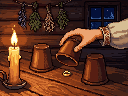
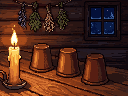
Andrzejki: trzy przykryte kubki i obrazki bez wybranego kubka (1094, czeka na ocenę)
Przed wyborem trzy przykryte kubki (wersja A domalowana przez PixelLab
w przyjęty obrazek), a po wyborze obrazek bez wybranego kubka, z figurką
wróżby w jego miejscu. Na wersję testową; do gry po ocenie 1094.

Claude-Session: https://claude.ai/code/session_01EFZUMqpHps3KDRogHBzjf3

Changed region(s): [[0.4375, 0.1875, 1.0, 0.8125]]

diff --git a/src/client/andrzejki.js b/src/client/andrzejki.js
@@ -67,13 +67,16 @@ function result(evening, texts, fresh) {
 
 // The picture of the evening, with the omen over it once told: the shadow
 // of the shape on the wall and the shape in the bowl (wax), or the
-// figurine where the cup chosen stood (`cup`).
+// figurine where the cup chosen stood (`cup`): the three cups covered
+// before the choice (1093.3), and after it the picture without the cup
+// chosen (cups-open-1 to 3).
 function scene(evening) {
   const omen = evening.told;
+  const art = evening.kind === 'cups' && omen ? `cups-open-${omen.cup ?? 2}` : evening.kind;
   return h(
     'div',
     { class: `andrzejki-scene andrzejki-scene--${evening.kind}${omen ? ' andrzejki-scene--told' : ''}` },
-    h('img', { class: 'andrzejki-scene-art', src: `/art/andrzejki/${evening.kind}.png`, alt: '', width: 128, height: 96, draggable: 'false' }),
+    h('img', { class: 'andrzejki-scene-art', src: `/art/andrzejki/${art}.png`, alt: '', width: 128, height: 96, draggable: 'false' }),
     omen && evening.kind === 'wax' && h('span', { class: 'andrzejki-shadow', 'aria-hidden': 'true' }, omenSprite(omen.id)),
     omen && evening.kind === 'wax' && h('span', { class: 'andrzejki-figure andrzejki-figure--bowl', 'aria-hidden': 'true' }, omenSprite(omen.id)),
     omen && evening.kind === 'cups' && h('span', { class: `andrzejki-figure andrzejki-figure--cup${omen.cup ?? 2}`, 'aria-hidden': 'true' }, omenSprite(omen.id)),

diff --git a/test/client.test.js b/test/client.test.js
@@ -239,9 +239,9 @@ test('every sprite on the list has its file at its size, and every class has its
     // The winter camp's decorations from the calendar of Szczodre Gody (1044).
     winter: Object.values(data('winter').decorations).map((decoration) => decoration.art),
     // Andrzejki's omens with the candle of its achievement, and its two
-    // evenings' pictures (1082 C).
+    // evenings' pictures (1082 C), the cups' also without each cup chosen.
     omens: [...data('winter').andrzejki.omens.map((omen) => omen.id), 'candle'],
-    andrzejki: data('winter').andrzejki.days.map((evening) => evening.kind),
+    andrzejki: [...data('winter').andrzejki.days.map((evening) => evening.kind), ...Array.from({ length: data('winter').andrzejki.cups }, (_, index) => `cups-open-${index + 1}`)],
     riders: [...data('classes'), ...data('evolutions').evolutions, ...outfits].flatMap((owner) => looks.map((look) => `${owner.id}-${look}`)),
     // The fights' boards of the places (790 B) and of the lands (802).
     boards: [...data('settlement').places.flatMap((place) => place.fightBoard ?? []), ...data('regions').flatMap((region) => region.fightBoard ?? [])],

diff --git a/src/client/art.js b/src/client/art.js
@@ -648,11 +648,13 @@ export const SPRITES = {
     ids: ['dragon', 'purse', 'key', 'raven', 'star', 'leaf', 'heart', 'crown', 'candle'],
   },
   // Andrzejki's two evenings, the wax and the three cups (1082 C: the wax's
-  // version 2, the cups' version 3), 128×96, drawn in PixelLab.
+  // version 2, the cups' version 3 with all three covered, 1093.3), and the
+  // cups once one is chosen, without it (cups-open-1 to 3), 128×96, drawn in
+  // PixelLab.
   andrzejki: {
     width: 128,
     height: 96,
-    ids: ['wax', 'cups'],
+    ids: ['wax', 'cups', 'cups-open-1', 'cups-open-2', 'cups-open-3'],
   },
   cosmetics: {
     width: 120,
